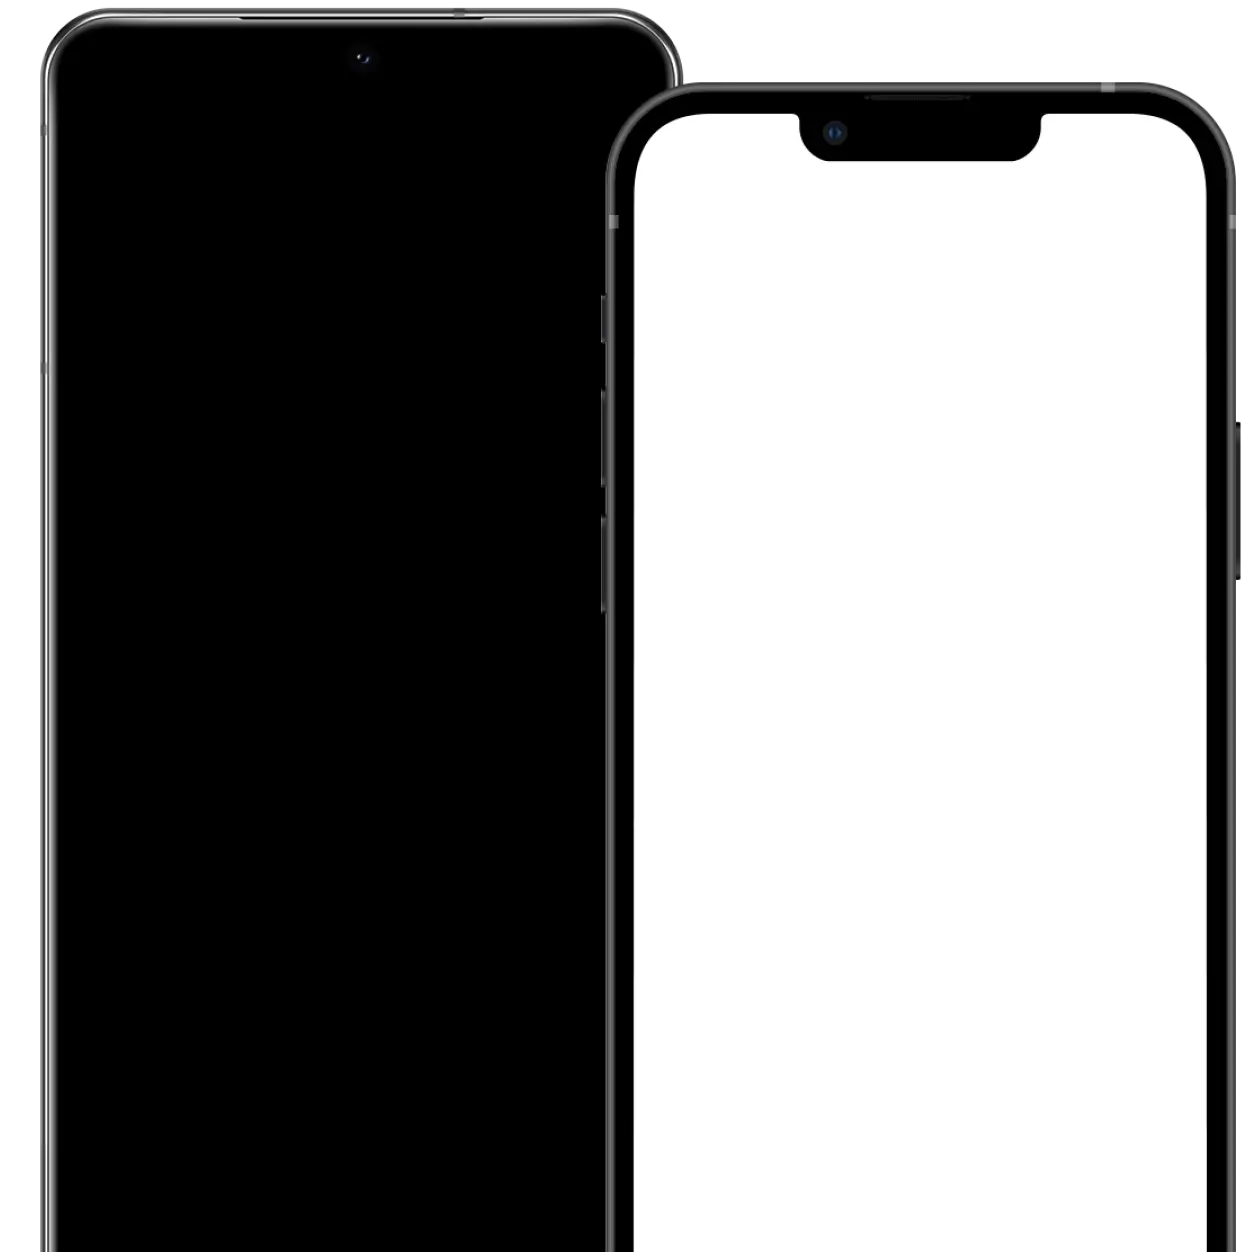
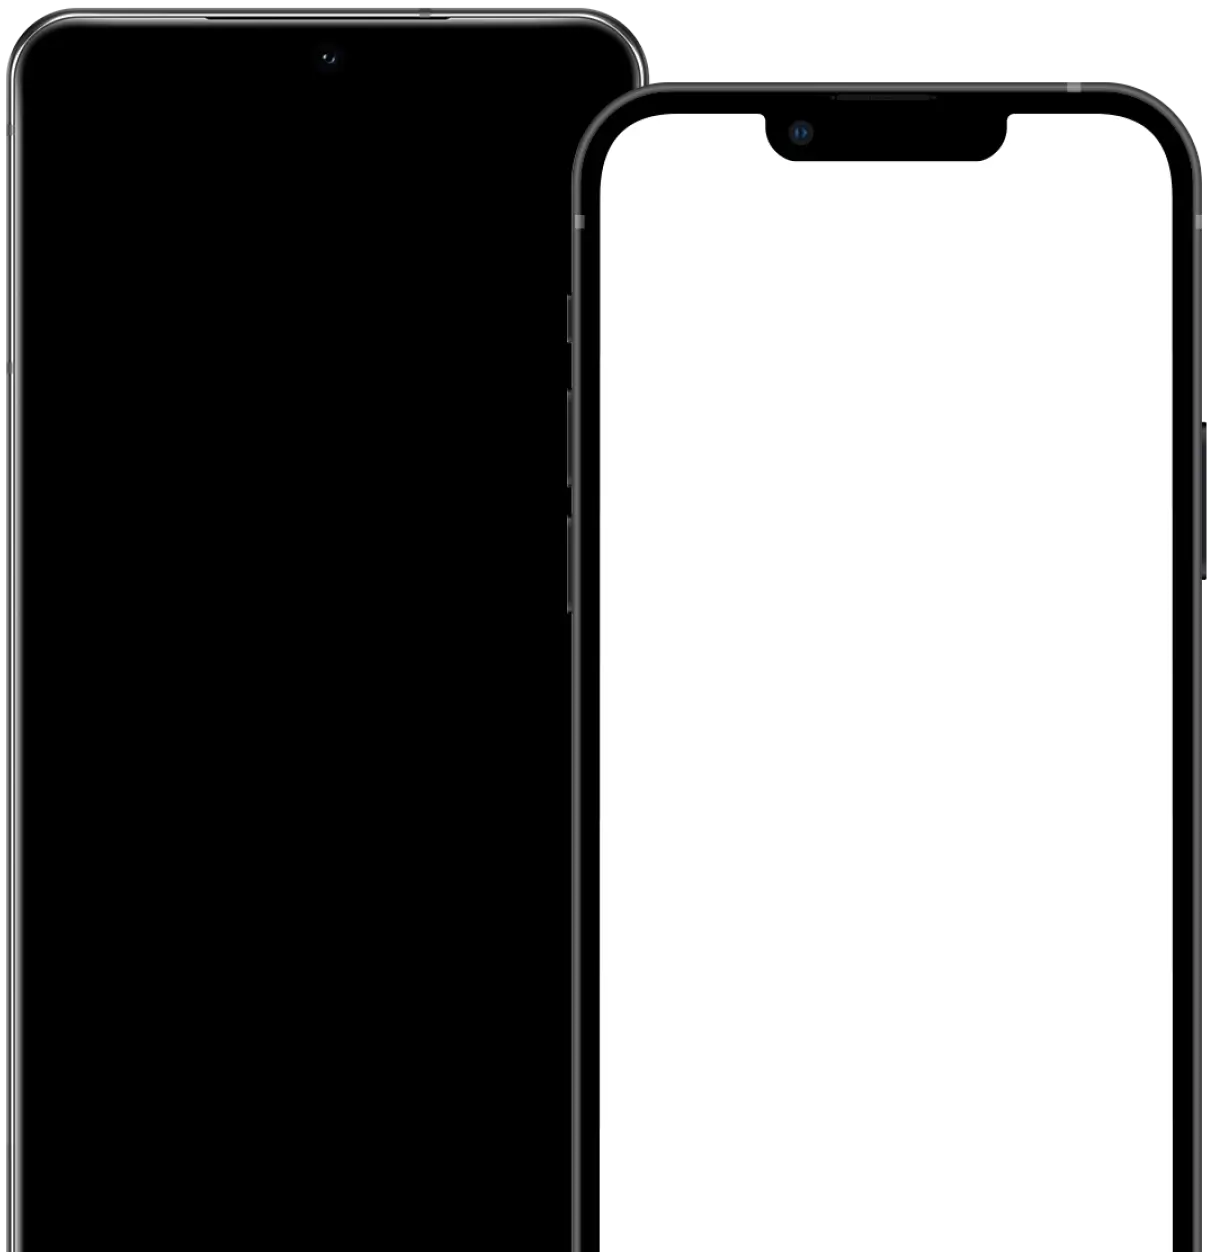
fix: styling bug

diff --git a/src/assets/css/homepage-rwd.css b/src/assets/css/homepage-rwd.css
@@ -3,10 +3,37 @@
 }
 
 /* MEDIA QUERIES:MAX ==================== */
+@media (max-width: 1100px) {
+    /* PAGE: HOMEPAGE */
+    /* PHONE */
+    [data-section="phone"] .phone-item {
+        gap: var(--spacing-2xs);
+        width: 13rem;
+        align-items: center;
+        text-align: center;
+
+        &:nth-child(1) {
+            transform: translateX(-80%);
+        }
+
+        &:nth-child(2) {
+            transform: translateX(80%);
+        }
+
+        &:nth-child(3) {
+            transform: translateX(-80%);
+        }
+
+        &:nth-child(4) {
+            transform: translateX(80%);
+        }
+    }
+}
 @media (max-width: 991px) {
     /* PAGE: HOMEPAGE */
     /* HOMEPAGE HERO */
     [data-section="homepage-hero"] .container {
+        justify-content: center;
         gap: var(--spacing-lg);
     }
 
@@ -53,8 +80,6 @@
     }
 
     [data-section="phone"] .phone-item {
-        gap: var(--spacing-2xs);
-        width: 13rem;
         position: static;
         place-self: center;
 

diff --git a/src/assets/css/homepage.css b/src/assets/css/homepage.css
@@ -82,6 +82,7 @@
     }
 
     .country-item {
+        width: 100%;
         display: flex;
         align-items: center;
         gap: var(--spacing-3xs);
@@ -144,8 +145,8 @@
 }
 
 [data-section="phone"] .phone-wrapper {
-    aspect-ratio: 1;
-    width: max(43.4722222222vw, 62.6rem);
+    aspect-ratio: 0.9680511182;
+    width: max(42.08333333333vw, 60.6rem);
     margin: 0 auto;
     position: relative;
 

diff --git a/src/assets/css/global-rwd.css b/src/assets/css/global-rwd.css
@@ -220,6 +220,11 @@
         margin-top: var(--spacing-md);
     }
 
+    .header-cta .language-selector .popup {
+        top: auto;
+        bottom: calc(100% + var(--spacing-4xs));
+    }
+
     /* FOOTER ================================================ */
     .footer-nav {
         flex-direction: column;
